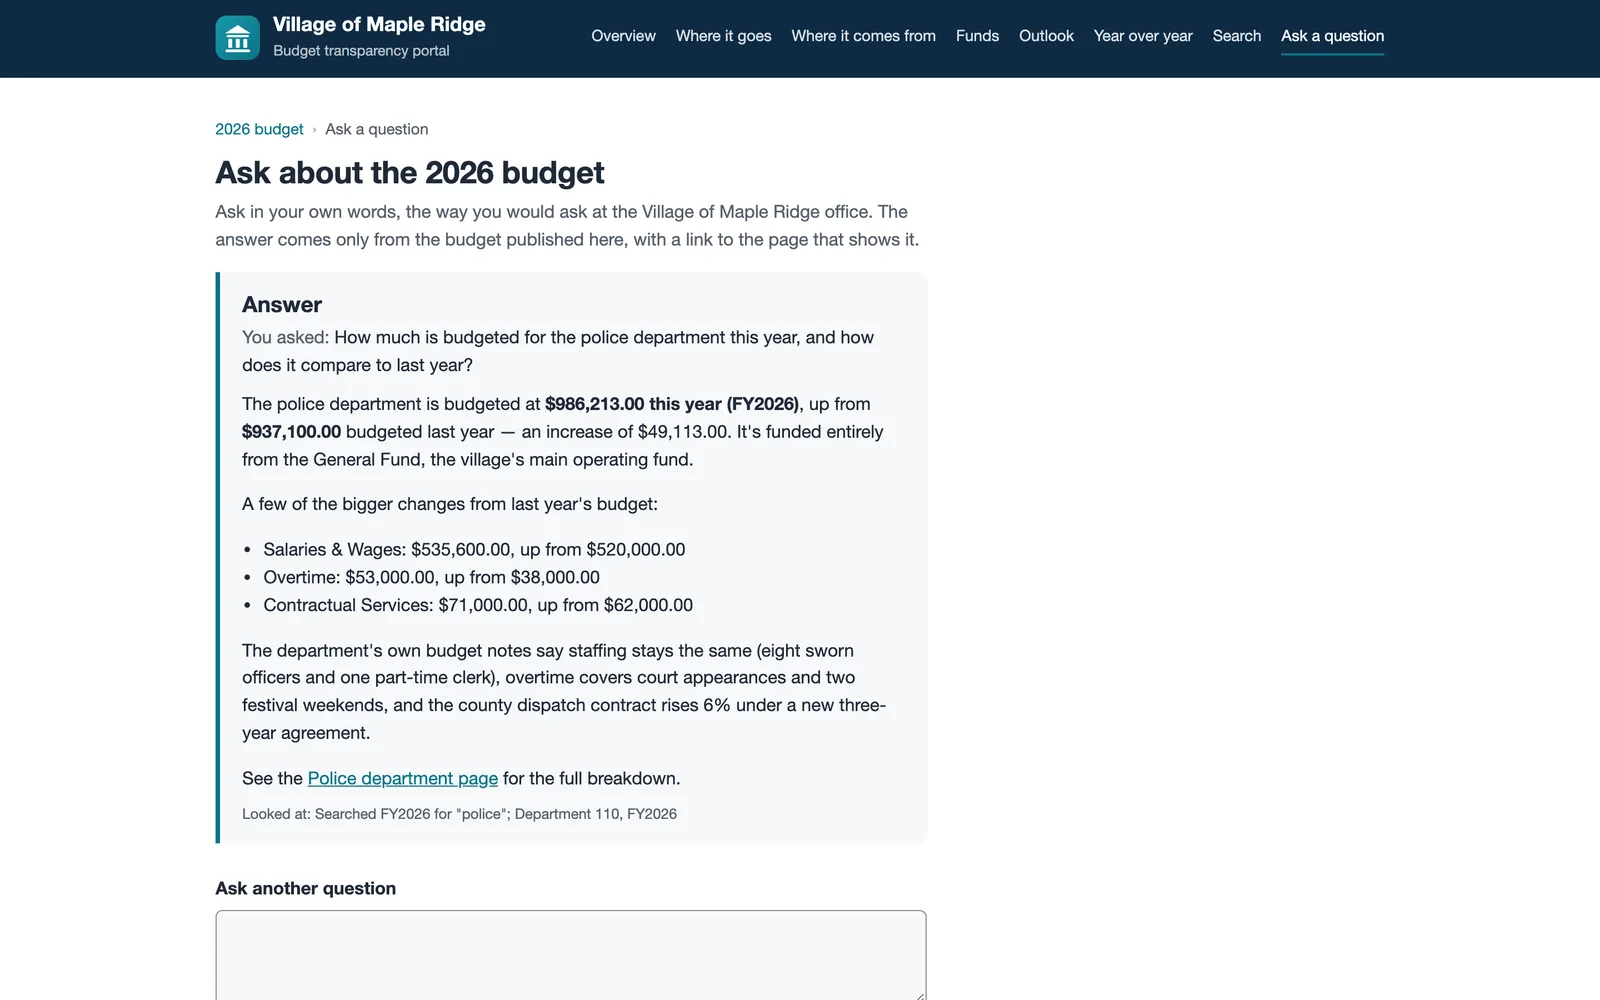
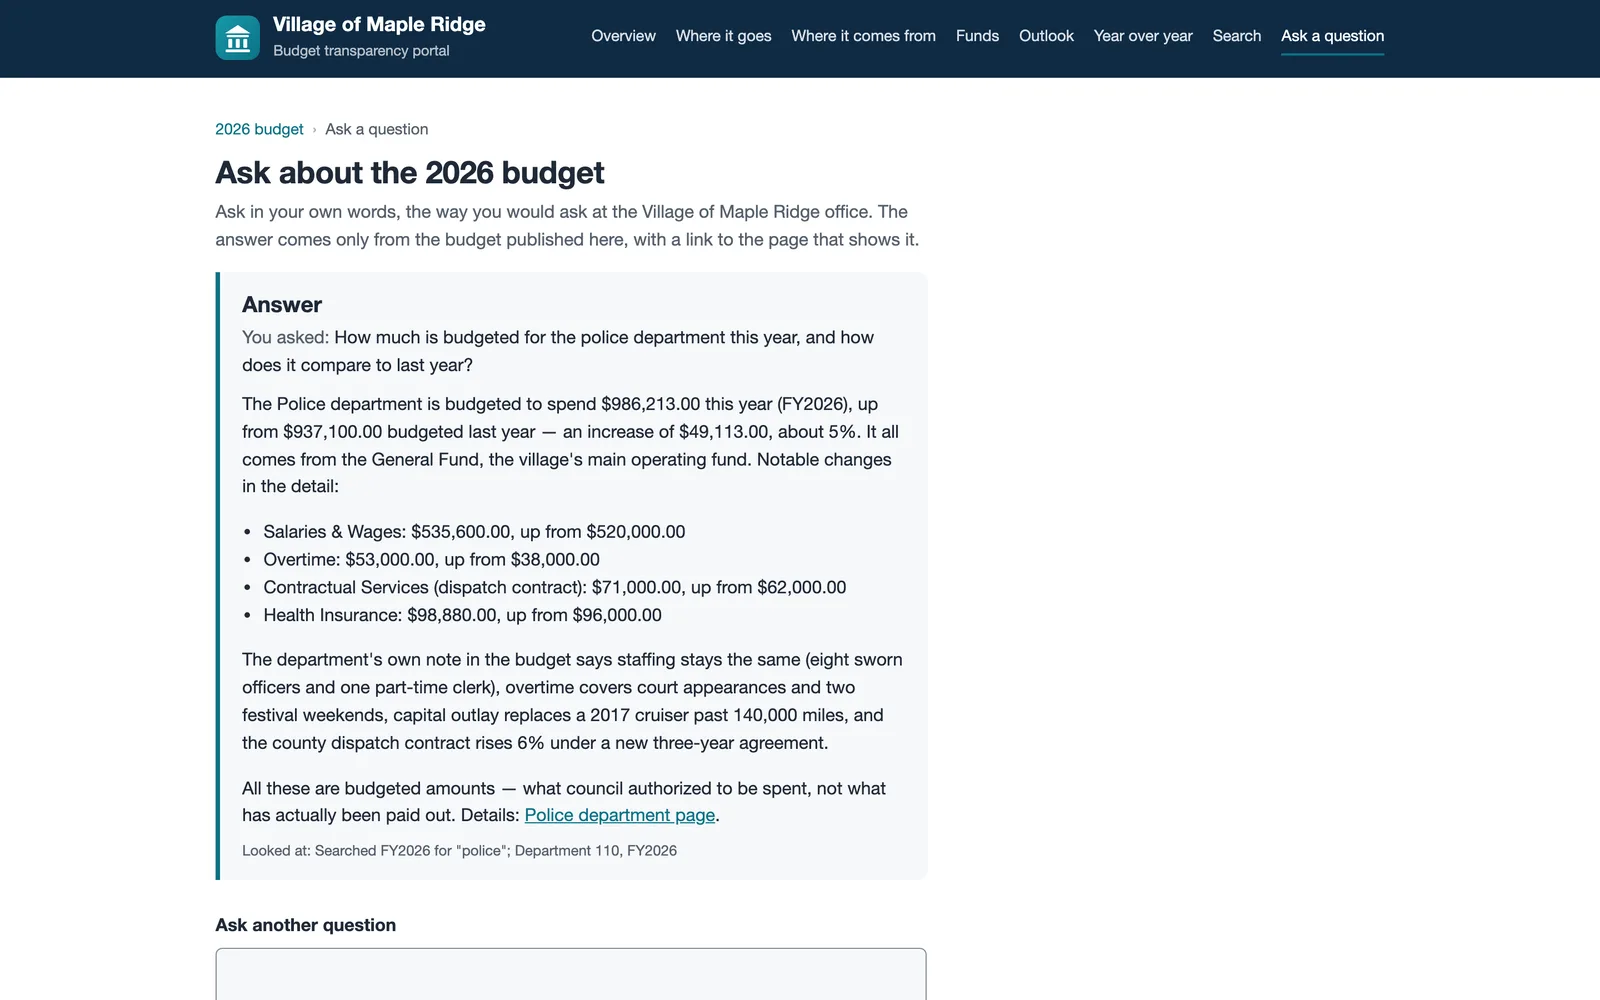
CivicBudget site: the question-box screenshot from the final capture

Changed region(s): [[0.125, 0.372, 0.5625, 0.93], [0.4375, 0.558, 0.5312, 0.589]]

diff --git a/public/CivicBudget/index.html b/public/CivicBudget/index.html
@@ -145,7 +145,7 @@
           </ul>
         </div>
         <div class="shot-pair">
-          <img class="shot" src="assets/img/portal-ask.webp" width="1600" height="1000" loading="lazy" alt="The portal's Ask a question page: asked how much is budgeted for police and how it compares to last year, the answer gives $986,213.00, up $49,113.00 from $937,100.00, the lines behind the increase, what the department's own published narrative says about staffing, overtime, and the dispatch contract, and a link to the Police department page.">
+          <img class="shot" src="assets/img/portal-ask.webp" width="1600" height="1000" loading="lazy" alt="The portal's Ask a question page: asked how much is budgeted for police and how it compares to last year, the answer gives $986,213.00, up $49,113.00 from $937,100.00, the lines behind the increase, what the department's own published narrative says about staffing, overtime, the cruiser, and the dispatch contract, a reminder that these are budgeted amounts, and a link to the Police department page.">
           <figure class="clip clip--phone">
             <video class="shot" data-clip="portal question clip" muted loop playsinline controls preload="none" width="390" height="844" poster="assets/video/ask-poster.webp" aria-describedby="cap-ask">
               <source src="assets/video/ask.mp4" type="video/mp4">
